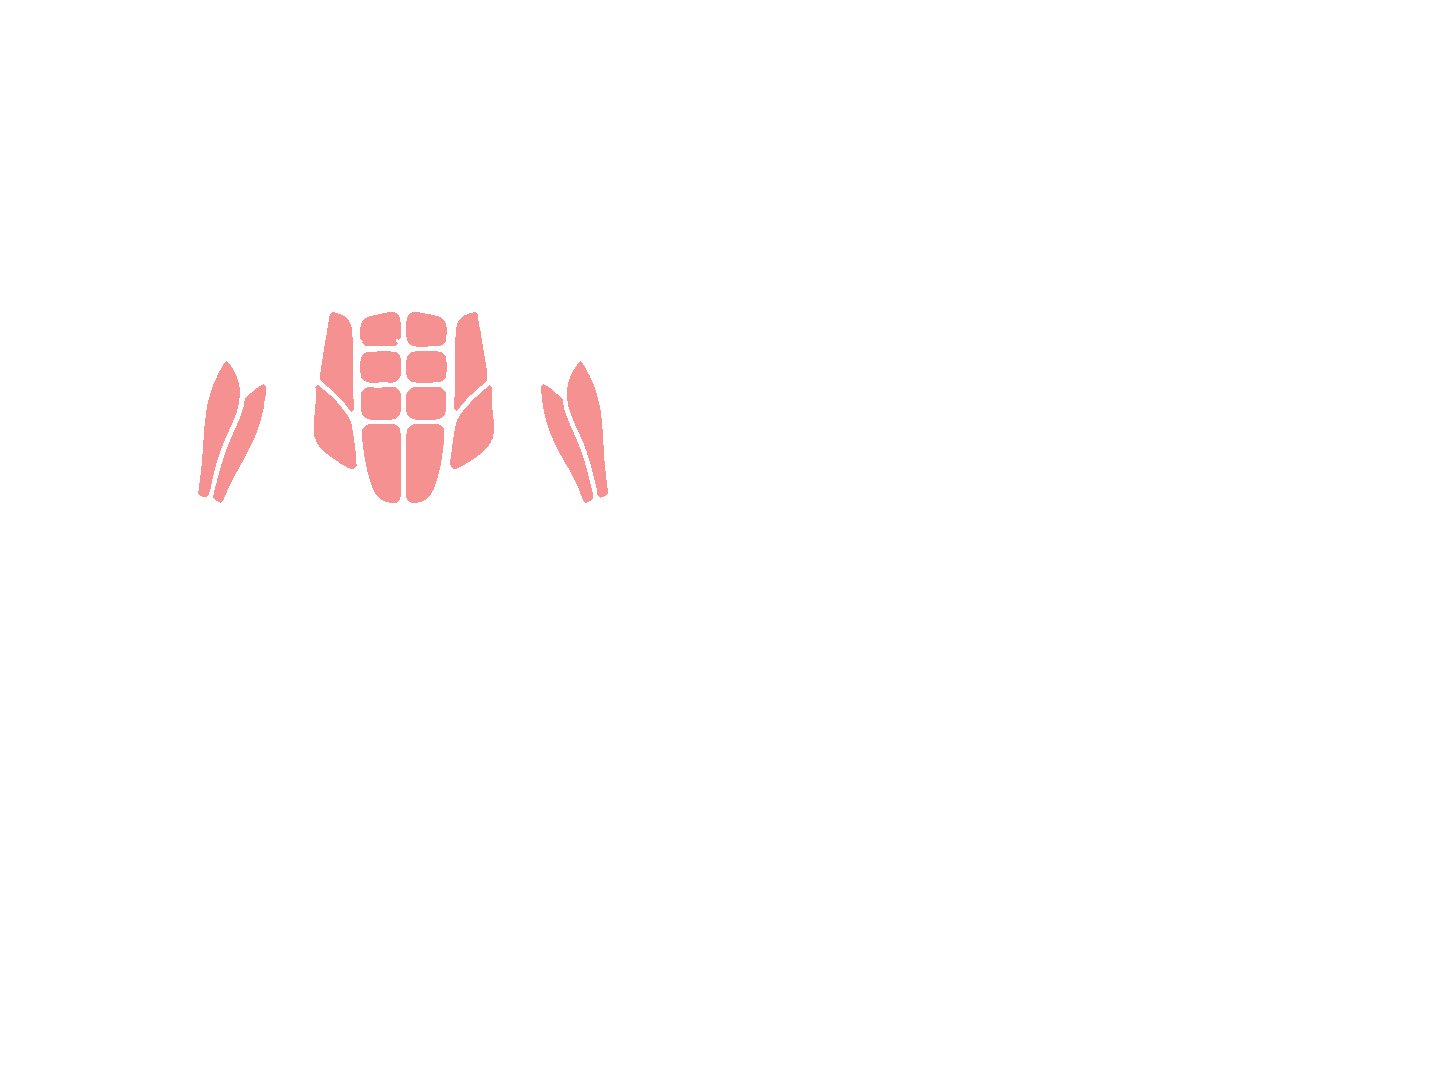
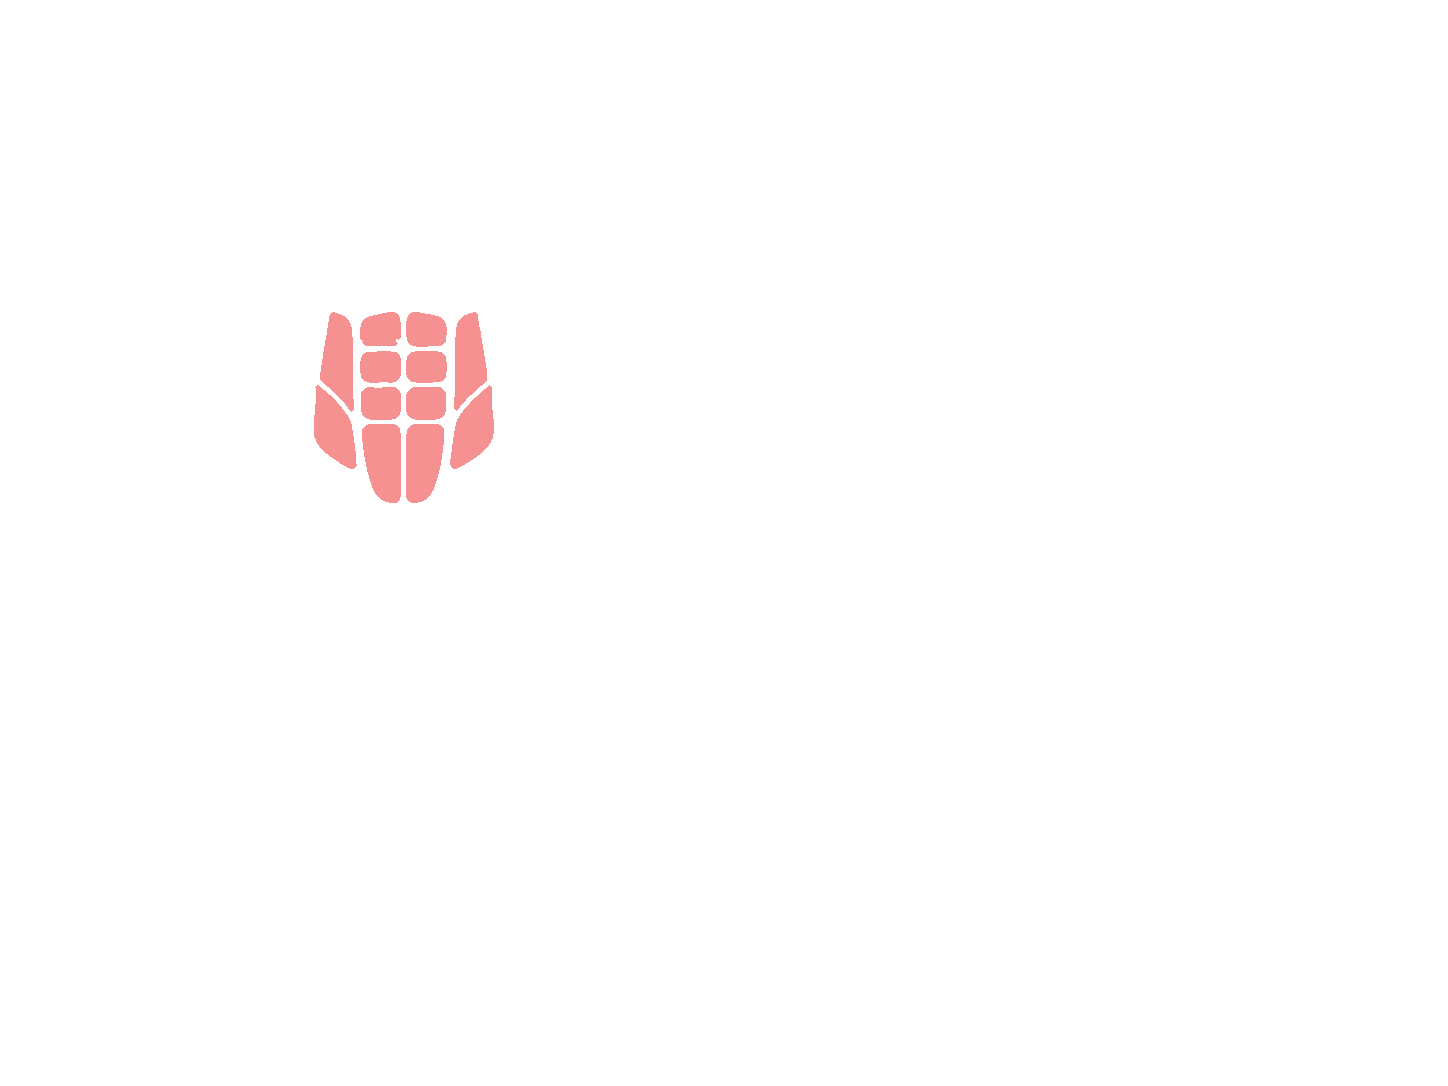
Fix workout detail set counts and remove forearms from core mask
The workout detail page passed only the active muscle groups to
WorkoutMuscleMap, which triggered the fallback that assigns one set
per active part — so a Core workout with six crunch sets showed Core=1.
It now aggregates set counts per body part the same way analytics does
and passes them through muscleGroupSets.

Also removes four forearm components (L63/L64/L70/L71) that were
mistakenly classified as external obliques in the prior core mask
rebuild. Core now covers only rectus abdominis and torso obliques.

Changed region(s): [[0.3729, 0.3343, 0.4351, 0.4558], [0.1243, 0.3343, 0.1865, 0.4558]]

diff --git a/src/app/(app)/workouts/[workoutId]/page.tsx b/src/app/(app)/workouts/[workoutId]/page.tsx
@@ -22,7 +22,7 @@ import { useAppPreferences } from "@/components/providers/AppPreferencesProvider
 import { formatVolume } from "@/lib/pr-utils";
 import { WorkoutMuscleMap } from "@/components/workout/WorkoutMuscleMap";
 import { ActiveWorkout } from "@/components/workout/ActiveWorkout";
-import { toBodyPart } from "@/lib/muscle-groups";
+import { BODY_PARTS, toBodyPart, type BodyPart } from "@/lib/muscle-groups";
 import { BookmarkPlus, Pencil, Trash2 } from "lucide-react";
 
 export default function WorkoutDetailPage() {
@@ -53,15 +53,18 @@ export default function WorkoutDetailPage() {
     return <p className="text-muted-foreground">{t("common.notFoundWorkout")}</p>;
   }
 
-  const muscleGroups = Array.from(
-    new Set(
-      workout.exercises
-        .map((exercise) =>
-          exercise.exercise ? toBodyPart(exercise.exercise.muscleGroup) : null
-        )
-        .filter(Boolean)
-    )
-  ) as string[];
+  const muscleGroupSets = workout.exercises.reduce(
+    (counts, ex) => {
+      if (!ex.exercise) return counts;
+      const part = toBodyPart(ex.exercise.muscleGroup);
+      counts[part] += ex.sets.length;
+      return counts;
+    },
+    Object.fromEntries(BODY_PARTS.map((part) => [part, 0])) as Record<
+      BodyPart,
+      number
+    >
+  );
 
   async function handleSaveTemplate() {
     if (!workout || !templateName.trim()) return;
@@ -158,7 +161,7 @@ export default function WorkoutDetailPage() {
         </p>
       )}
 
-      <WorkoutMuscleMap muscleGroups={muscleGroups} />
+      <WorkoutMuscleMap muscleGroups={[]} muscleGroupSets={muscleGroupSets} />
 
       <div className="space-y-3">
         {workout.exercises.map((ex) => {
